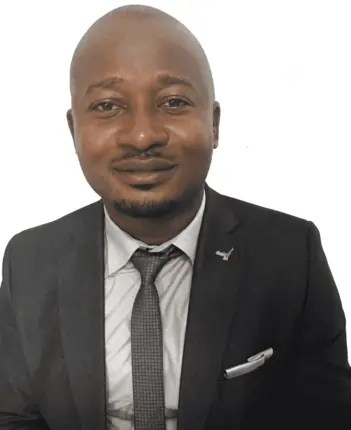
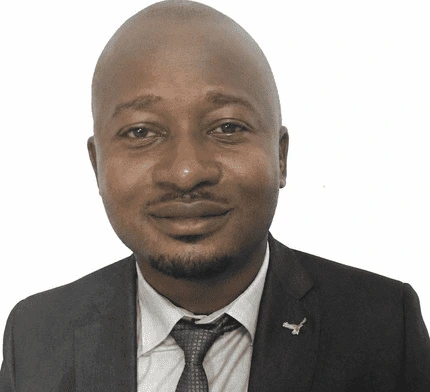
edit image size in hero section and public image

diff --git a/src/components/Hero/Hero.jsx b/src/components/Hero/Hero.jsx
@@ -223,8 +223,8 @@ export default function Hero() {
             <img
               src="/profile.webp"
               alt="Eyongtarh Besong"
-              width="350"
-              height="350"
+              width="430"
+              height="392"
               loading="eager"
               decoding="async"
               fetchPriority="high"
